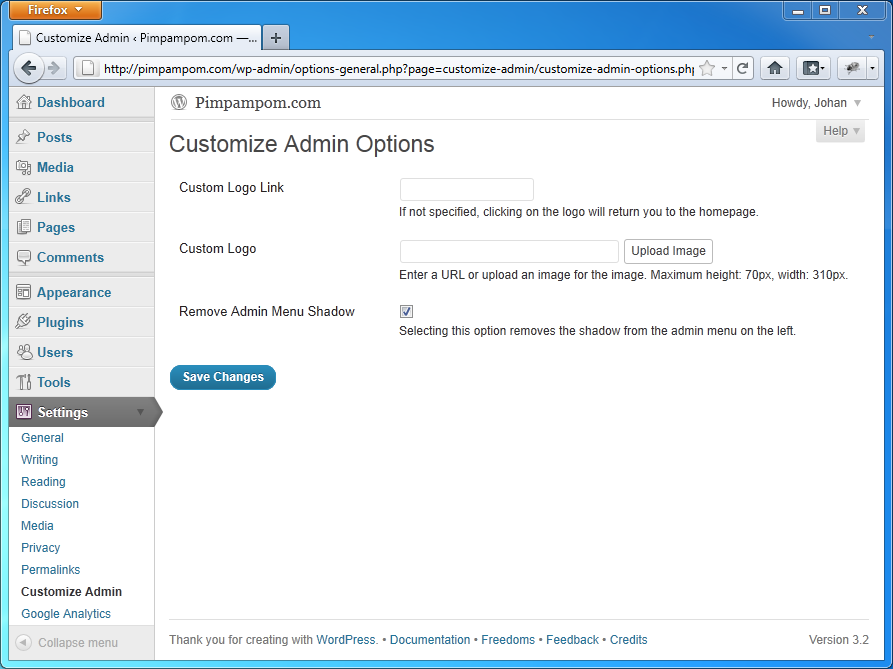
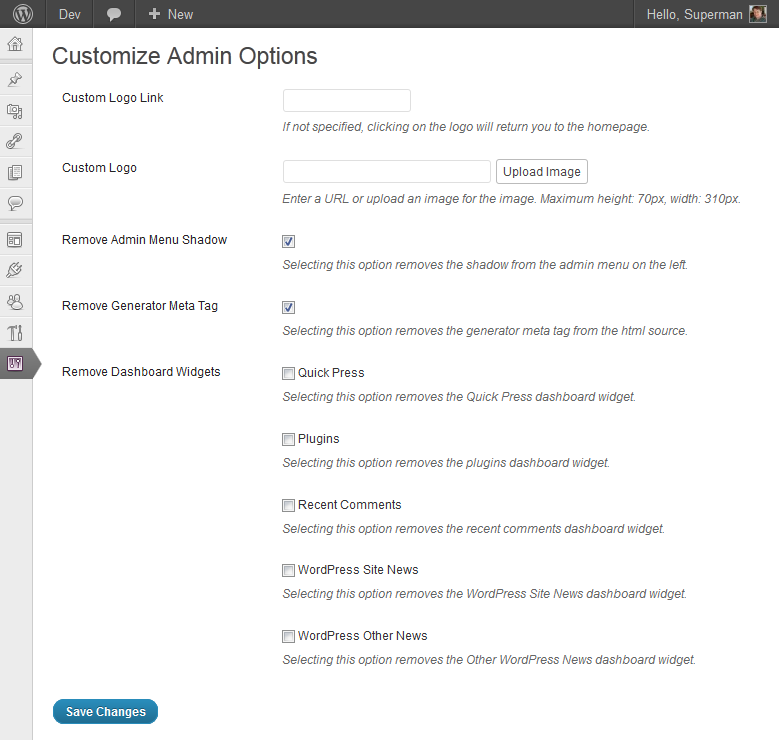
git-svn-id: https://plugins.svn.wordpress.org/customize-admin/trunk@567046 b8457f37-d9ea-0310-8a92-e5e31aec5664

diff --git a/customize-admin-options.php b/customize-admin-options.php
@@ -61,7 +61,7 @@ function ca_settings_page() { ?>
 				<td><label for="upload_image">
 					<input id="upload_image" type="text" size="36" name="ca_logo_file" value="<?php echo get_option( 'ca_logo_file' ); ?>" />
 					<input id="upload_image_button" type="button" value="Upload Image" />
-					<p class="description"><?php _e( 'Enter a URL or upload an image for the image. Maximum height: 70px, width: 310px.' ); ?></p>
+					<p class="description"><?php _e( 'Enter a URL or upload logo image. Maximum height: 70px, width: 310px.' ); ?></p>
 					</label>
 				</td>
 			</tr>
